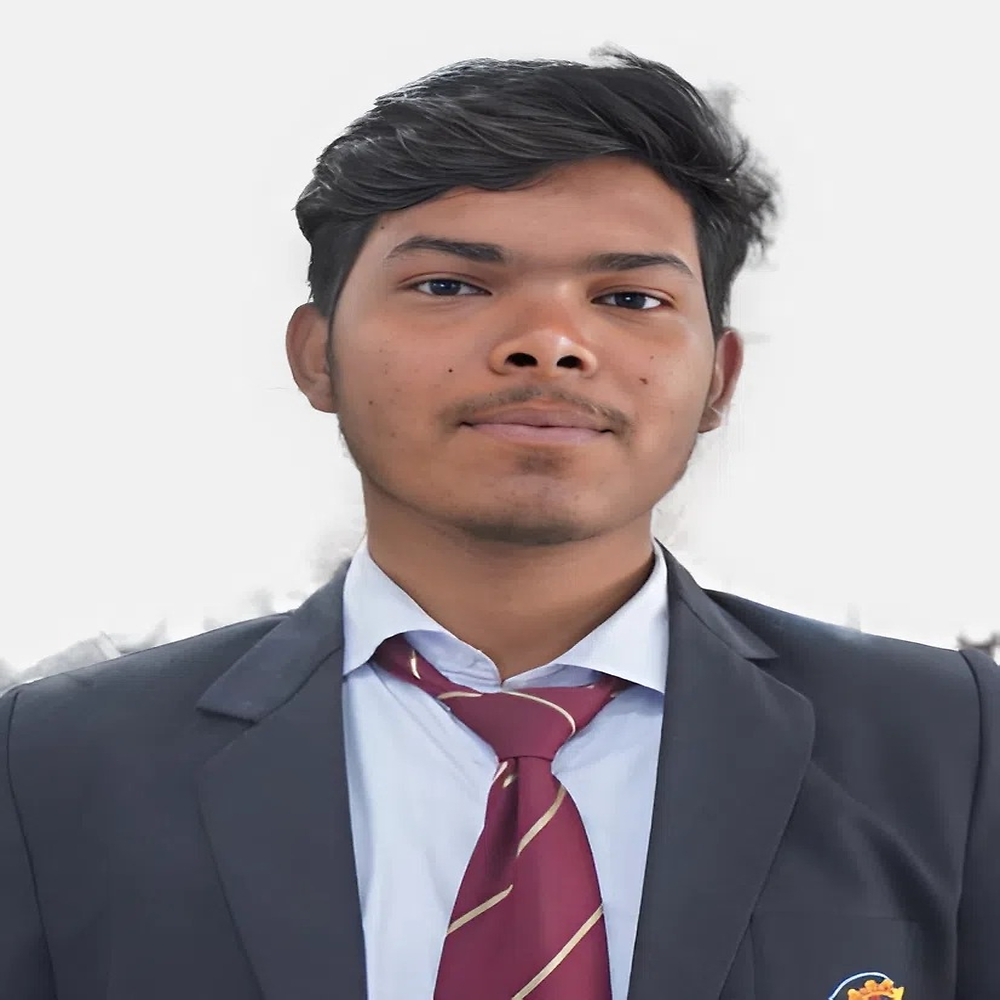
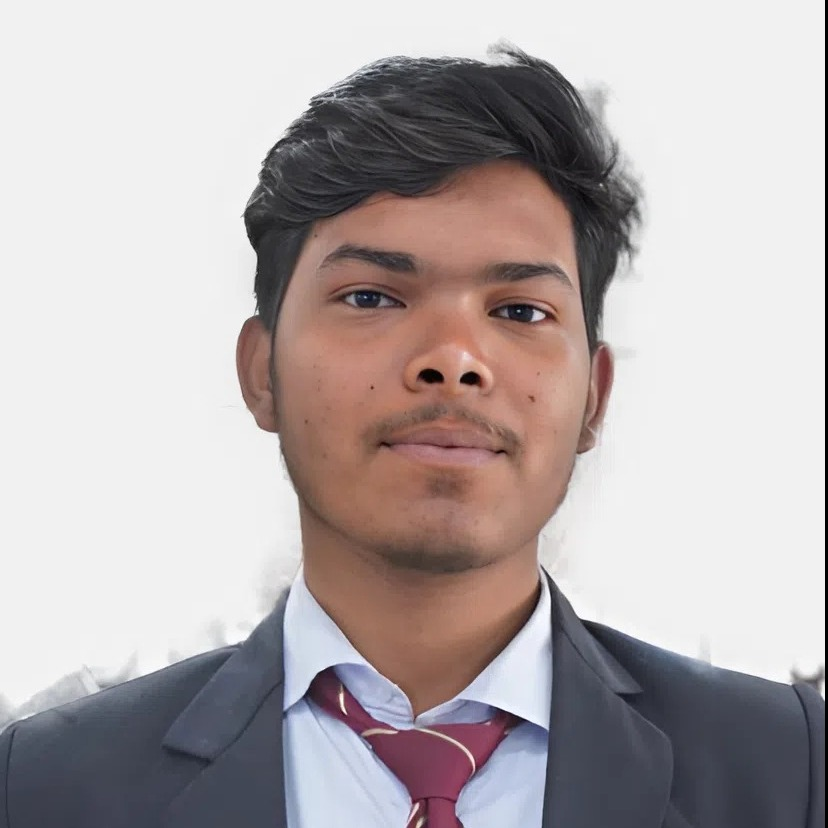
cr

diff --git a/src/components/Team.tsx b/src/components/Team.tsx
@@ -6,6 +6,8 @@ import sauravPic from '../assets/sauravpic.jpg';
 import tabassumPic from '../assets/tabassum.jpg';
 import khushiPic from '../assets/khushipic.jpg';
 import shubhankarPic from '../assets/shubhankarpic.jpg';
+import shubhamPic from '../assets/shubhampic.jpg';
+
 interface TeamMember {
   name: string;
   role: string;
@@ -42,7 +44,7 @@ const teamMembers: TeamMember[] = [
     name: 'Shubham Kumar',
     role: 'Technical Head',
     bio: 'Oversees technical development and projects.',
-    image: '/images/shubham.jpg',
+    image: shubhamPic,
   },
   {
     name: 'Khushi Thapliyal',
